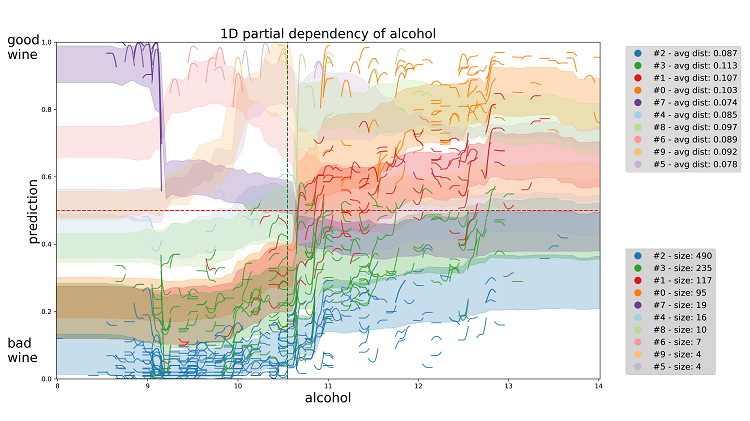
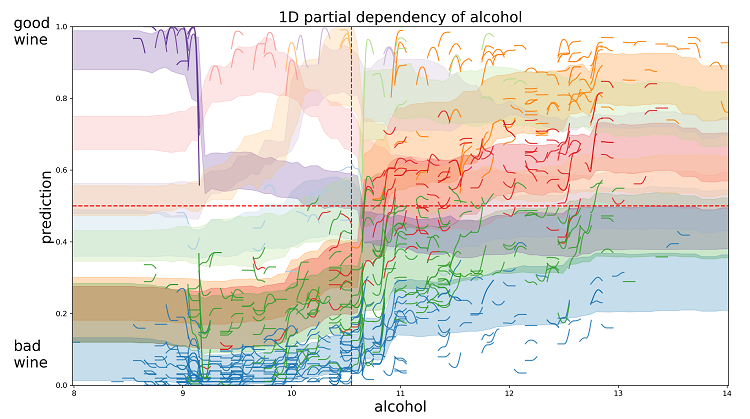
cropping images

diff --git a/README.rst b/README.rst
@@ -135,7 +135,7 @@ The visualization is automatically saved in a png file in the same folder of the
 .. image:: plot_alcohol_for_rst.png
     :width: 750px
     :align: center
-    :height: 421px
+    :height: 419px
     :alt: alternate text
 
 
@@ -174,5 +174,5 @@ Data points representations
 .. image:: plot_alcohol_warped_3_for_rst.png
     :width: 750px
     :align: center
-    :height: 421px
+    :height: 413px
     :alt: alternate text
